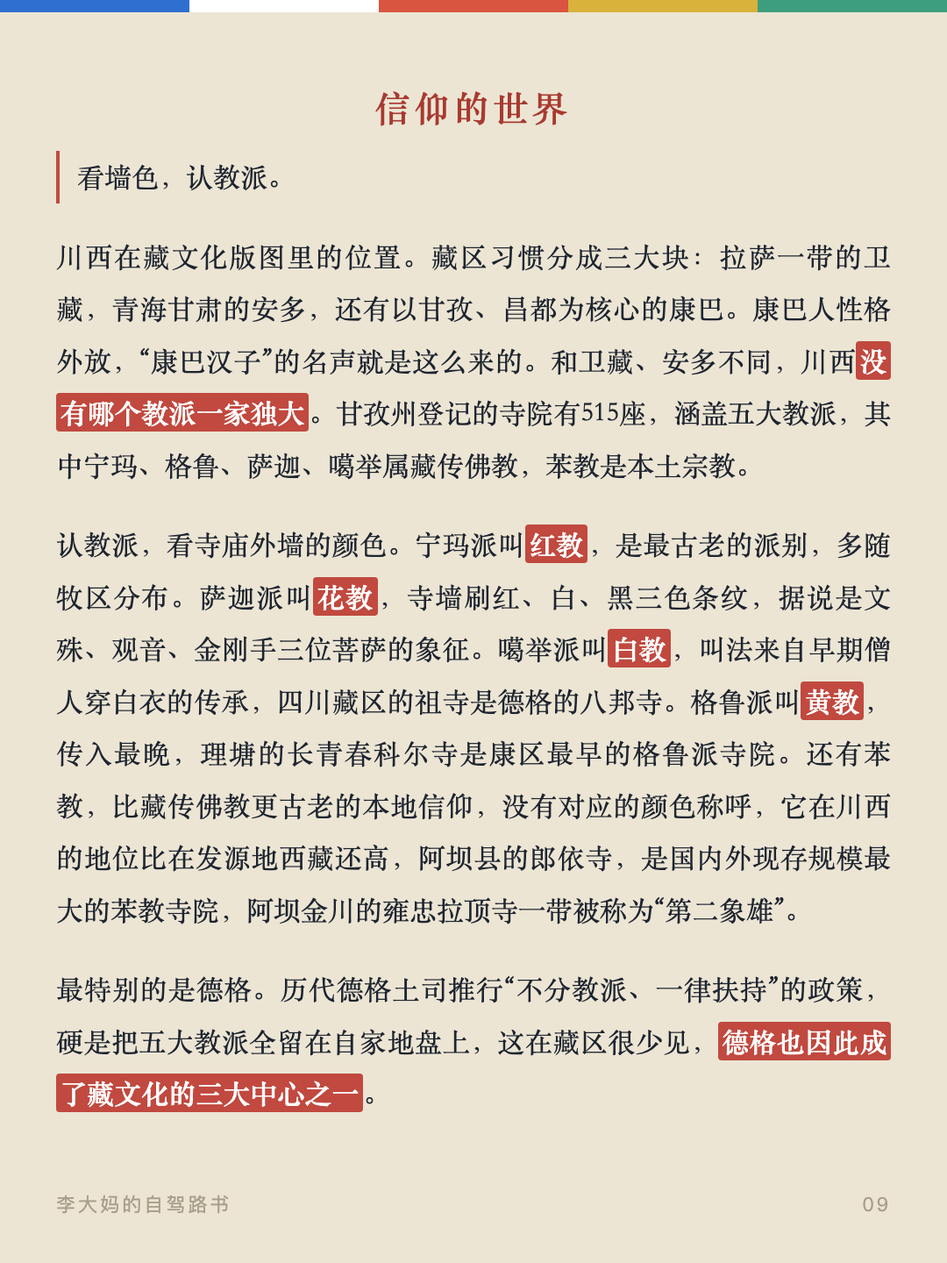
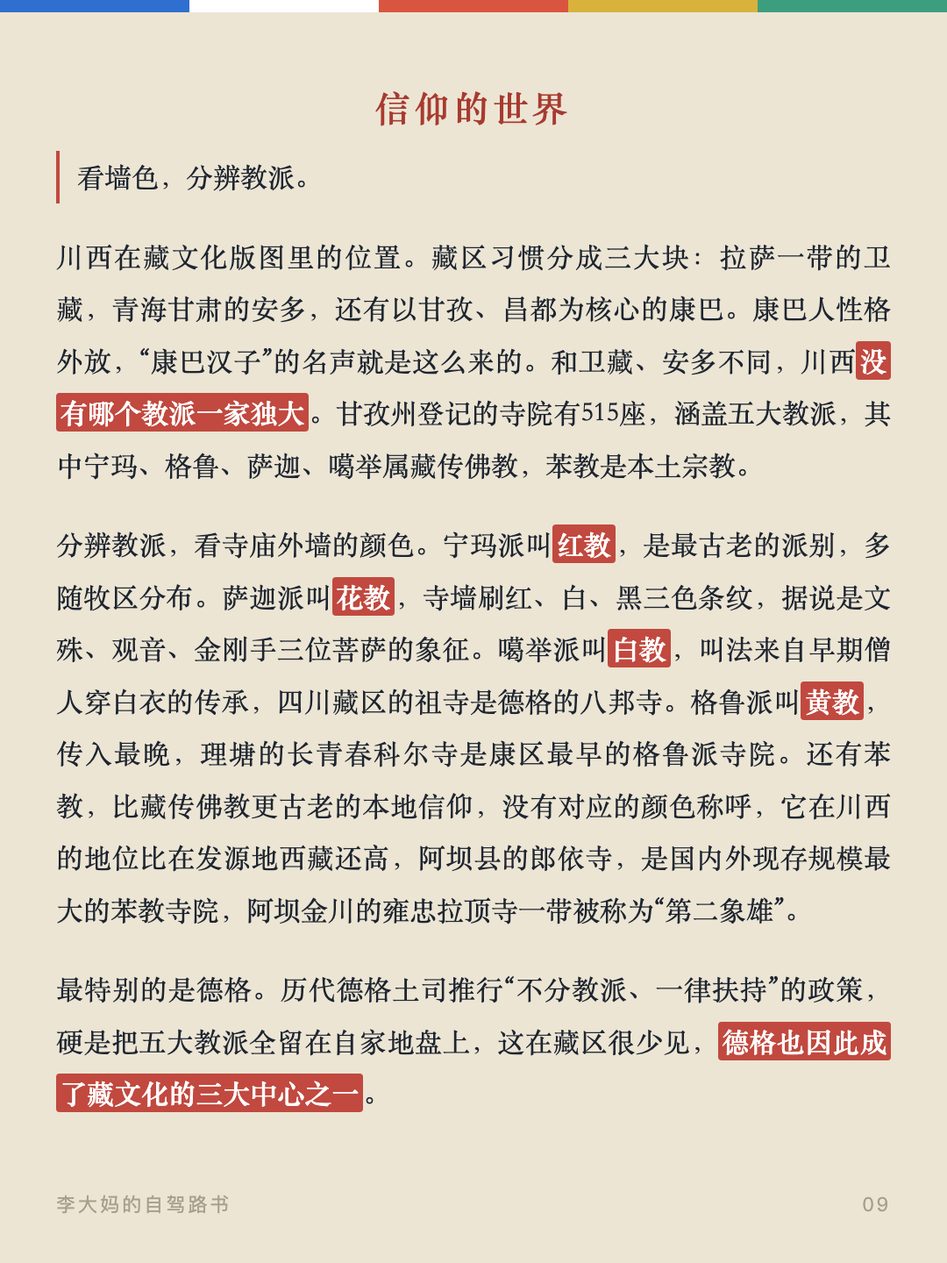
「认教派」改「分辨教派」：认字不尊重，四处统一
- 封面 intro：车怎么开山路、信仰怎么分辨（顺带消单字收尾）
- 章目/lead/正文：看墙色分辨教派
- 重截 card-1、card-9，17页无溢出无孤字

Changed region(s): [[0.0611, 0.4062, 0.9472, 0.5], [0.1833, 0.125, 0.3056, 0.1562]]

diff --git a/cards.html b/cards.html
@@ -123,7 +123,7 @@
 </head>
 <body>
 
-<div class="card" id="card1"><div class="flag" aria-hidden="true"><span style="background:var(--flag-blue)"></span><span style="background:var(--flag-white)"></span><span style="background:var(--flag-red)"></span><span style="background:var(--flag-yellow)"></span><span style="background:var(--flag-green)"></span></div><div class="card__inner"><div class="card__kicker">李大妈的自驾路书</div><h1><strong>川西自驾行前笔记</strong></h1><p class="card__intro">川西自驾是一门功课：海拔怎么分层、山河怎么走向、车怎么开、信仰怎么认、手艺在哪儿、房子为什么长这样。</p><p class="card__meta">我习惯在行前把零碎信息整理成笔记，当作出行线索。笔记更新于2026年8月28日。天气、封路、营业时间等信息随季节变化，出发前应再次查询官方信息。</p><h2>开篇　七章速览</h2><ul class="card__keys"><li><span>海拔决定秩序</span><strong>一　高原的秩序</strong></li> <li><span>山河决定地图</span><strong>二　山河的地图</strong></li> <li><span>车是腿，慢是快</span><strong>三　路上的驾驶学</strong></li> <li><span>认得前兆，知道方向</span><strong>四　遇见险情怎么办</strong></li> <li><span>看墙色认教派</span><strong>五　信仰的世界</strong></li> <li><span>手艺是还在运转的产业</span><strong>六　手艺的文明</strong></li> <li><span>材料决定房子</span><strong>七　建筑的方言</strong></li></ul><div class="card__foot"><span></span><span class="foot-flag" aria-hidden="true"><span style="background:var(--flag-blue)"></span><span style="background:var(--flag-white)"></span><span style="background:var(--flag-red)"></span><span style="background:var(--flag-yellow)"></span><span style="background:var(--flag-green)"></span></span><span>01</span></div></div></div>
+<div class="card" id="card1"><div class="flag" aria-hidden="true"><span style="background:var(--flag-blue)"></span><span style="background:var(--flag-white)"></span><span style="background:var(--flag-red)"></span><span style="background:var(--flag-yellow)"></span><span style="background:var(--flag-green)"></span></div><div class="card__inner"><div class="card__kicker">李大妈的自驾路书</div><h1><strong>川西自驾行前笔记</strong></h1><p class="card__intro">川西自驾是一门功课：海拔怎么分层、山河怎么走向、车怎么开山路、信仰怎么分辨、手艺在哪儿、房子为什么长这样。</p><p class="card__meta">我习惯在行前把零碎信息整理成笔记，当作出行线索。笔记更新于2026年8月28日。天气、封路、营业时间等信息随季节变化，出发前应再次查询官方信息。</p><h2>开篇　七章速览</h2><ul class="card__keys"><li><span>海拔决定秩序</span><strong>一　高原的秩序</strong></li> <li><span>山河决定地图</span><strong>二　山河的地图</strong></li> <li><span>车是腿，慢是快</span><strong>三　路上的驾驶学</strong></li> <li><span>认得前兆，知道方向</span><strong>四　遇见险情怎么办</strong></li> <li><span>看墙色分辨教派</span><strong>五　信仰的世界</strong></li> <li><span>手艺是还在运转的产业</span><strong>六　手艺的文明</strong></li> <li><span>材料决定房子</span><strong>七　建筑的方言</strong></li></ul><div class="card__foot"><span></span><span class="foot-flag" aria-hidden="true"><span style="background:var(--flag-blue)"></span><span style="background:var(--flag-white)"></span><span style="background:var(--flag-red)"></span><span style="background:var(--flag-yellow)"></span><span style="background:var(--flag-green)"></span></span><span>01</span></div></div></div>
 
 <div class="card" id="card2"><div class="flag" aria-hidden="true"><span style="background:var(--flag-blue)"></span><span style="background:var(--flag-white)"></span><span style="background:var(--flag-red)"></span><span style="background:var(--flag-yellow)"></span><span style="background:var(--flag-green)"></span></div><div class="card__inner"><h3>与人相处</h3><p><strong>牧民。</strong> 牛羊是牧民的主要家当。遇到牧群，放慢车速、不鸣笛，等它们过。拍牧民和牲畜，先打招呼再举相机。牧场的帐篷和围栏，不随便进。</p><p><strong>匠人。</strong> 进工坊先问能不能看，问手艺、问工序，匠人愿意聊就聊。工具和材料不上手碰。买现货，半成品和机压仿品不碰。</p><p><strong>僧侣。</strong> 称呼用“师父”或“上师”。进大殿脱帽、轻声、顺时针走，不拍照、不指佛像。法会时安静看，不打断、不围观起哄。</p><p><strong>司机和本地人。</strong> 见面一句“扎西德勒”，气氛就开了。问路、问价，态度客气，多数人都愿意答。高原上的人大多直接，不绕弯。</p><p><strong>买东西。</strong> 讲好价就认，不反复缠价。看上了再还价，压完不买<span class="nowrap">最伤和气。</span></p><p><strong>拍照。</strong> 拍人先问，拍寺院内部和法会先看有没有禁令。相机镜头对着人的时候，先问一句，多数人会同意的。</p><div class="card__foot"><span>李大妈的自驾路书</span><span>02</span></div></div></div>
 
@@ -139,7 +139,7 @@
 
 <div class="card" id="card8"><div class="flag" aria-hidden="true"><span style="background:var(--flag-blue)"></span><span style="background:var(--flag-white)"></span><span style="background:var(--flag-red)"></span><span style="background:var(--flag-yellow)"></span><span style="background:var(--flag-green)"></span></div><div class="card__inner"><h2>遇见险情怎么办</h2><p class="card__lead">前兆认得出，险情躲得开。</p><h3>路上的险</h3><p>川西的雨集中在6到8月，暴雨后一两天别进峡谷、溪沟。溪水突然变浑、暴涨，沟里传来轰隆声，都是前兆，往两侧山坡高处跑，别顺着沟跑。路上遇塌方，停车观察，掉头绕行，不硬冲。大雪后别急着进山，遇雪崩往两侧跑，找岩石或大树躲身后。行车时找开阔地停，避开山崖、桥梁、隧道口和电线杆，震后有余震，别急着走。</p><h3>山野的险</h3><p>夏季午后，高海拔垭口常有雷雨，垭口和山顶别当避雷处，下午早点下山。湿冷加大风，夏天也会失温，包里带件干衣服，淋湿就换。雨后林间、溪边、草丛，蚂蟥多，扎紧裤脚，被咬撒盐让它松口。毒蛇雨后初晴出没，遇蛇慢慢退开，不跑不追。被咬记下蛇的样子，尽快就医。</p><div class="card__foot"><span>李大妈的自驾路书</span><span>08</span></div></div></div>
 
-<div class="card" id="card9"><div class="flag" aria-hidden="true"><span style="background:var(--flag-blue)"></span><span style="background:var(--flag-white)"></span><span style="background:var(--flag-red)"></span><span style="background:var(--flag-yellow)"></span><span style="background:var(--flag-green)"></span></div><div class="card__inner"><h2>信仰的世界</h2><p class="card__lead">看墙色，认教派。</p><p>川西在藏文化版图里的位置。藏区习惯分成三大块：拉萨一带的卫藏，青海甘肃的安多，还有以甘孜、昌都为核心的康巴。康巴人性格外放，“康巴汉子”的名声就是这么来的。和卫藏、安多不同，川西<strong>没有哪个教派一家独大</strong>。甘孜州登记的寺院有515座，涵盖五大教派，其中宁玛、格鲁、萨迦、噶举属藏传佛教，苯教是本土宗教。</p><p>认教派，看寺庙外墙的颜色。宁玛派叫<strong>红教</strong>，是最古老的派别，多随牧区分布。萨迦派叫<strong>花教</strong>，寺墙刷红、白、黑三色条纹，据说是文殊、观音、金刚手三位菩萨的象征。噶举派叫<strong>白教</strong>，叫法来自早期僧人穿白衣的传承，四川藏区的祖寺是德格的八邦寺。格鲁派叫<strong>黄教</strong>，传入最晚，理塘的长青春科尔寺是康区最早的格鲁派寺院。还有苯教，比藏传佛教更古老的本地信仰，没有对应的颜色称呼，它在川西的地位比在发源地西藏还高，阿坝县的郎依寺，是国内外现存规模最大的苯教寺院，阿坝金川的雍忠拉顶寺一带被称为“第二象雄”。</p><p>最特别的是德格。历代德格土司推行“不分教派、一律扶持”的政策，硬是把五大教派全留在自家地盘上，这在藏区很少见，<strong>德格也因此成了藏文化的三大中心之一</strong>。</p><div class="card__foot"><span>李大妈的自驾路书</span><span>09</span></div></div></div>
+<div class="card" id="card9"><div class="flag" aria-hidden="true"><span style="background:var(--flag-blue)"></span><span style="background:var(--flag-white)"></span><span style="background:var(--flag-red)"></span><span style="background:var(--flag-yellow)"></span><span style="background:var(--flag-green)"></span></div><div class="card__inner"><h2>信仰的世界</h2><p class="card__lead">看墙色，分辨教派。</p><p>川西在藏文化版图里的位置。藏区习惯分成三大块：拉萨一带的卫藏，青海甘肃的安多，还有以甘孜、昌都为核心的康巴。康巴人性格外放，“康巴汉子”的名声就是这么来的。和卫藏、安多不同，川西<strong>没有哪个教派一家独大</strong>。甘孜州登记的寺院有515座，涵盖五大教派，其中宁玛、格鲁、萨迦、噶举属藏传佛教，苯教是本土宗教。</p><p>分辨教派，看寺庙外墙的颜色。宁玛派叫<strong>红教</strong>，是最古老的派别，多随牧区分布。萨迦派叫<strong>花教</strong>，寺墙刷红、白、黑三色条纹，据说是文殊、观音、金刚手三位菩萨的象征。噶举派叫<strong>白教</strong>，叫法来自早期僧人穿白衣的传承，四川藏区的祖寺是德格的八邦寺。格鲁派叫<strong>黄教</strong>，传入最晚，理塘的长青春科尔寺是康区最早的格鲁派寺院。还有苯教，比藏传佛教更古老的本地信仰，没有对应的颜色称呼，它在川西的地位比在发源地西藏还高，阿坝县的郎依寺，是国内外现存规模最大的苯教寺院，阿坝金川的雍忠拉顶寺一带被称为“第二象雄”。</p><p>最特别的是德格。历代德格土司推行“不分教派、一律扶持”的政策，硬是把五大教派全留在自家地盘上，这在藏区很少见，<strong>德格也因此成了藏文化的三大中心之一</strong>。</p><div class="card__foot"><span>李大妈的自驾路书</span><span>09</span></div></div></div>
 
 <div class="card" id="card10"><div class="flag" aria-hidden="true"><span style="background:var(--flag-blue)"></span><span style="background:var(--flag-white)"></span><span style="background:var(--flag-red)"></span><span style="background:var(--flag-yellow)"></span><span style="background:var(--flag-green)"></span></div><div class="card__inner"><p>路边的符号，各有含义。经幡也叫风马旗，五种颜色对应蓝天、白云、红火、江河、大地，挂在山顶风口，<strong>藏人相信风吹动一次等于诵经一次</strong>。玛尼堆是刻了六字真言的石块堆，路人经过会念着真言添一块石头，不搬走当纪念品。白塔源于古印度的覆钵式佛塔，路过捡块石头放上去，或献条哈达许愿。转经筒里装着经文，转一圈等于念诵一遍。六字真言“唵嘛呢叭咪吽”是观世音菩萨的总持咒。</p><p>和信仰打交道，有几条规矩：<strong>绕行一律顺时针，只有苯教是逆时针</strong>。磕长头是身敬、语敬、意敬三者合一，额头叩地的瞬间，心里同时念咒、观想。煨桑是烧香柏枝，也是祈愿的仪式。献哈达要看对象：白色最普遍，黄色献给活佛和高僧，五彩哈达被视为菩萨的衣裳，只在隆重场合用。<strong>哈达只递到对方手里，不能挂脖子上，只有长辈给晚辈才往脖子上搭</strong>。天葬是藏人把遗体布施给神鹰，<strong>全程严禁围观、拍照，当地有明文规定，连打听都不要</strong>。另有几条硬规矩：<strong>不摸别人的头，佛像、唐卡、经书不指</strong>，非要指就五指并拢、手心朝上，不进人家供奉的佛堂，不取献给塔上的供品，过门槛不踩。</p><p>川西的佛学院，把藏地的学问办在草原和山沟里。寺院的分科叫“五明”：<strong>工巧明是工艺，医方明是医学，声明是语言文字，因明是逻辑论辩，内明是佛学；再加上修辞、辞藻、韵律、戏剧、历算五科，合称“十明”。</strong>色达的喇荣、白玉的亚青、德格的佐钦，都是宁玛派的大佛学院，学通五明的僧人，藏语称“班智达”。</p><div class="card__foot"><span>李大妈的自驾路书</span><span>10</span></div></div></div>
 

diff --git a/index.html b/index.html
@@ -180,7 +180,7 @@
   <header class="hero wrap">
     <div class="hero__kicker">李大妈的自驾路书</div>
     <h1><strong>川西自驾行前笔记</strong></h1>
-    <p class="hero__intro">川西自驾是一门功课：海拔怎么分层、山河怎么走向、车怎么开、信仰怎么认、手艺在哪儿、房子为什么长这样。</p>
+    <p class="hero__intro">川西自驾是一门功课：海拔怎么分层、山河怎么走向、车怎么开山路、信仰怎么分辨、手艺在哪儿、房子为什么长这样。</p>
     <p class="hero__meta">我习惯在行前把零碎信息整理成笔记，当作出行线索。笔记更新于2026年8月28日。天气、封路、营业时间等信息随季节变化，出发前应再次查询官方信息。</p>
     <div class="flag" aria-hidden="true"><span class="b"></span><span class="w"></span><span class="r"></span><span class="y"></span><span class="g"></span></div>
     <nav class="nav" aria-label="章节跳转">
@@ -206,7 +206,7 @@
         <li><span>山河决定地图</span><strong>二　山河的地图</strong></li>
         <li><span>车是腿，慢是快</span><strong>三　路上的驾驶学</strong></li>
         <li><span>认得前兆，知道方向</span><strong>四　遇见险情怎么办</strong></li>
-        <li><span>看墙色认教派</span><strong>五　信仰的世界</strong></li>
+        <li><span>看墙色分辨教派</span><strong>五　信仰的世界</strong></li>
         <li><span>手艺是还在运转的产业</span><strong>六　手艺的文明</strong></li>
         <li><span>材料决定房子</span><strong>七　建筑的方言</strong></li>
       </ul>
@@ -275,9 +275,9 @@
     <!-- 五、信仰的世界 -->
     <section class="part" id="faith">
       <div class="part__head"><span class="part__no" aria-hidden="true">五</span><h2>信仰的世界</h2></div>
-      <p class="part__lead">看墙色，认教派。</p>
+      <p class="part__lead">看墙色，分辨教派。</p>
       <p>川西在藏文化版图里的位置。藏区习惯分成三大块：拉萨一带的卫藏，青海甘肃的安多，还有以甘孜、昌都为核心的康巴。康巴人性格外放，“康巴汉子”的名声就是这么来的。和卫藏、安多不同，川西<strong>没有哪个教派一家独大</strong>。甘孜州登记的寺院有515座，涵盖五大教派，其中宁玛、格鲁、萨迦、噶举属藏传佛教，苯教是本土宗教。</p>
-      <p>认教派，看寺庙外墙的颜色。宁玛派叫<strong>红教</strong>，是最古老的派别，多随牧区分布。萨迦派叫<strong>花教</strong>，寺墙刷红、白、黑三色条纹，据说是文殊、观音、金刚手三位菩萨的象征。噶举派叫<strong>白教</strong>，叫法来自早期僧人穿白衣的传承，四川藏区的祖寺是德格的八邦寺。格鲁派叫<strong>黄教</strong>，传入最晚，理塘的长青春科尔寺是康区最早的格鲁派寺院。还有苯教，比藏传佛教更古老的本地信仰，没有对应的颜色称呼，它在川西的地位比在发源地西藏还高，阿坝县的郎依寺，是国内外现存规模最大的苯教寺院，阿坝金川的雍忠拉顶寺一带被称为“第二象雄”。</p>
+      <p>分辨教派，看寺庙外墙的颜色。宁玛派叫<strong>红教</strong>，是最古老的派别，多随牧区分布。萨迦派叫<strong>花教</strong>，寺墙刷红、白、黑三色条纹，据说是文殊、观音、金刚手三位菩萨的象征。噶举派叫<strong>白教</strong>，叫法来自早期僧人穿白衣的传承，四川藏区的祖寺是德格的八邦寺。格鲁派叫<strong>黄教</strong>，传入最晚，理塘的长青春科尔寺是康区最早的格鲁派寺院。还有苯教，比藏传佛教更古老的本地信仰，没有对应的颜色称呼，它在川西的地位比在发源地西藏还高，阿坝县的郎依寺，是国内外现存规模最大的苯教寺院，阿坝金川的雍忠拉顶寺一带被称为“第二象雄”。</p>
       <p>最特别的是德格。历代德格土司推行“不分教派、一律扶持”的政策，硬是把五大教派全留在自家地盘上，这在藏区很少见，<strong>德格也因此成了藏文化的三大中心之一</strong>。</p>
       <p>路边的符号，各有含义。经幡也叫风马旗，五种颜色对应蓝天、白云、红火、江河、大地，挂在山顶风口，<strong>藏人相信风吹动一次等于诵经一次</strong>。玛尼堆是刻了六字真言的石块堆，路人经过会念着真言添一块石头，不搬走当纪念品。白塔源于古印度的覆钵式佛塔，路过捡块石头放上去，或献条哈达许愿。转经筒里装着经文，转一圈等于念诵一遍。六字真言“唵嘛呢叭咪吽”是观世音菩萨的总持咒。</p>
       <p>和信仰打交道，有几条规矩：<strong>绕行一律顺时针，只有苯教是逆时针</strong>。磕长头是身敬、语敬、意敬三者合一，额头叩地的瞬间，心里同时念咒、观想。煨桑是烧香柏枝，也是祈愿的仪式。献哈达要看对象：白色最普遍，黄色献给活佛和高僧，五彩哈达被视为菩萨的衣裳，只在隆重场合用。<strong>哈达只递到对方手里，不能挂脖子上，只有长辈给晚辈才往脖子上搭</strong>。天葬是藏人把遗体布施给神鹰，<strong>全程严禁围观、拍照，当地有明文规定，连打听都不要</strong>。另有几条硬规矩：<strong>不摸别人的头，佛像、唐卡、经书不指</strong>，非要指就五指并拢、手心朝上，不进人家供奉的佛堂，不取献给塔上的供品，过门槛不踩。</p>

diff --git a/gen_cards.py b/gen_cards.py
@@ -13,12 +13,12 @@ FLAG = ('<span style="background:var(--flag-blue)"></span>'
 
 # ---- 网页内容块，原样搬运 ----
 
-KEYS = ('<ul class="card__keys"><li><span>海拔决定秩序</span><strong>一　高原的秩序</strong></li> <li><span>山河决定地图</span><strong>二　山河的地图</strong></li> <li><span>车是腿，慢是快</span><strong>三　路上的驾驶学</strong></li> <li><span>认得前兆，知道方向</span><strong>四　遇见险情怎么办</strong></li> <li><span>看墙色认教派</span><strong>五　信仰的世界</strong></li> <li><span>手艺是还在运转的产业</span><strong>六　手艺的文明</strong></li> <li><span>材料决定房子</span><strong>七　建筑的方言</strong></li></ul>')
+KEYS = ('<ul class="card__keys"><li><span>海拔决定秩序</span><strong>一　高原的秩序</strong></li> <li><span>山河决定地图</span><strong>二　山河的地图</strong></li> <li><span>车是腿，慢是快</span><strong>三　路上的驾驶学</strong></li> <li><span>认得前兆，知道方向</span><strong>四　遇见险情怎么办</strong></li> <li><span>看墙色分辨教派</span><strong>五　信仰的世界</strong></li> <li><span>手艺是还在运转的产业</span><strong>六　手艺的文明</strong></li> <li><span>材料决定房子</span><strong>七　建筑的方言</strong></li></ul>')
 
 PAGE1 = [
   ('kicker', '李大妈的自驾路书'),
   ('h1', '<strong>川西自驾行前笔记</strong>'),
-  ('intro', '川西自驾是一门功课：海拔怎么分层、山河怎么走向、车怎么开、信仰怎么认、手艺在哪儿、房子为什么长这样。'),
+  ('intro', '川西自驾是一门功课：海拔怎么分层、山河怎么走向、车怎么开山路、信仰怎么分辨、手艺在哪儿、房子为什么长这样。'),
   ('meta', '我习惯在行前把零碎信息整理成笔记，当作出行线索。笔记更新于2026年8月28日。天气、封路、营业时间等信息随季节变化，出发前应再次查询官方信息。'),
   ('h2', '开篇\u3000七章速览'),
   ('keys', KEYS),
@@ -65,9 +65,9 @@ BODY_STREAM = [
   ('h3', '山野的险'),
   ('p', '夏季午后，高海拔垭口常有雷雨，垭口和山顶别当避雷处，下午早点下山。湿冷加大风，夏天也会失温，包里带件干衣服，淋湿就换。雨后林间、溪边、草丛，蚂蟥多，扎紧裤脚，被咬撒盐让它松口。毒蛇雨后初晴出没，遇蛇慢慢退开，不跑不追。被咬记下蛇的样子，尽快就医。'),
   ('h2', '信仰的世界'),
-  ('lead', '看墙色，认教派。'),
+  ('lead', '看墙色，分辨教派。'),
   ('p', '川西在藏文化版图里的位置。藏区习惯分成三大块：拉萨一带的卫藏，青海甘肃的安多，还有以甘孜、昌都为核心的康巴。康巴人性格外放，“康巴汉子”的名声就是这么来的。和卫藏、安多不同，川西<strong>没有哪个教派一家独大</strong>。甘孜州登记的寺院有515座，涵盖五大教派，其中宁玛、格鲁、萨迦、噶举属藏传佛教，苯教是本土宗教。'),
-  ('p', '认教派，看寺庙外墙的颜色。宁玛派叫<strong>红教</strong>，是最古老的派别，多随牧区分布。萨迦派叫<strong>花教</strong>，寺墙刷红、白、黑三色条纹，据说是文殊、观音、金刚手三位菩萨的象征。噶举派叫<strong>白教</strong>，叫法来自早期僧人穿白衣的传承，四川藏区的祖寺是德格的八邦寺。格鲁派叫<strong>黄教</strong>，传入最晚，理塘的长青春科尔寺是康区最早的格鲁派寺院。还有苯教，比藏传佛教更古老的本地信仰，没有对应的颜色称呼，它在川西的地位比在发源地西藏还高，阿坝县的郎依寺，是国内外现存规模最大的苯教寺院，阿坝金川的雍忠拉顶寺一带被称为“第二象雄”。'),
+  ('p', '分辨教派，看寺庙外墙的颜色。宁玛派叫<strong>红教</strong>，是最古老的派别，多随牧区分布。萨迦派叫<strong>花教</strong>，寺墙刷红、白、黑三色条纹，据说是文殊、观音、金刚手三位菩萨的象征。噶举派叫<strong>白教</strong>，叫法来自早期僧人穿白衣的传承，四川藏区的祖寺是德格的八邦寺。格鲁派叫<strong>黄教</strong>，传入最晚，理塘的长青春科尔寺是康区最早的格鲁派寺院。还有苯教，比藏传佛教更古老的本地信仰，没有对应的颜色称呼，它在川西的地位比在发源地西藏还高，阿坝县的郎依寺，是国内外现存规模最大的苯教寺院，阿坝金川的雍忠拉顶寺一带被称为“第二象雄”。'),
   ('p', '最特别的是德格。历代德格土司推行“不分教派、一律扶持”的政策，硬是把五大教派全留在自家地盘上，这在藏区很少见，<strong>德格也因此成了藏文化的三大中心之一</strong>。'),
   ('p', '路边的符号，各有含义。经幡也叫风马旗，五种颜色对应蓝天、白云、红火、江河、大地，挂在山顶风口，<strong>藏人相信风吹动一次等于诵经一次</strong>。玛尼堆是刻了六字真言的石块堆，路人经过会念着真言添一块石头，不搬走当纪念品。白塔源于古印度的覆钵式佛塔，路过捡块石头放上去，或献条哈达许愿。转经筒里装着经文，转一圈等于念诵一遍。六字真言“唵嘛呢叭咪吽”是观世音菩萨的总持咒。'),
   ('p', '和信仰打交道，有几条规矩：<strong>绕行一律顺时针，只有苯教是逆时针</strong>。磕长头是身敬、语敬、意敬三者合一，额头叩地的瞬间，心里同时念咒、观想。煨桑是烧香柏枝，也是祈愿的仪式。献哈达要看对象：白色最普遍，黄色献给活佛和高僧，五彩哈达被视为菩萨的衣裳，只在隆重场合用。<strong>哈达只递到对方手里，不能挂脖子上，只有长辈给晚辈才往脖子上搭</strong>。天葬是藏人把遗体布施给神鹰，<strong>全程严禁围观、拍照，当地有明文规定，连打听都不要</strong>。另有几条硬规矩：<strong>不摸别人的头，佛像、唐卡、经书不指</strong>，非要指就五指并拢、手心朝上，不进人家供奉的佛堂，不取献给塔上的供品，过门槛不踩。'),

diff --git a/worklog-2026-08-28.md b/worklog-2026-08-28.md
@@ -35,12 +35,19 @@
 - 寺院段：「有120根柱子」→「有120根大柱子撑起殿顶」
 - 唐卡色：「见光不褪色」→「见光也永不褪色」
 
-### 4. jidakong skill 修正（4 条边界写入 SKILL.md）
+## 4. jidakong skill 修正（4 条边界写入 SKILL.md）
 按用户这轮判断提炼：
 1. **改稿句尾不用单字收尾**：「就停」→「就停下」、「没塌」→「没损坏」
 2. **「经受」「历经」类抽象承受动词不判拟人**，拟人只盯带人形体感的动作动词（扛、攥、走、喂）
 3. **「默认」类用在具体语境放行**，只盯叠床架屋和硬浓缩，不按词表见词就标
 4. **「X不Y，Z」澄清语境不算假靶子**：X 是真实对比或常见误解时是澄清，放行
+
+### 4.5 「认教派」→「分辨教派」
+用户看 PNG 时指出「认」字不够尊重（像认货、辨认标的物）。四处统一改：
+- 封面 intro：「车怎么开、信仰怎么认」→「车怎么开山路、信仰怎么分辨」（顺带消两个单字收尾）
+- 章目：「看墙色认教派」→「看墙色分辨教派」
+- lead：「看墙色，认教派。」→「看墙色，分辨教派。」
+- 正文：「认教派，看寺庙外墙的颜色。」→「分辨教派，看寺庙外墙的颜色。」
 
 ## 待用户人工检查
 - 17 张 PNG（cards/card-1.png 至 card-17.png）：新增「遇见险情怎么办」章节排版、并页效果
